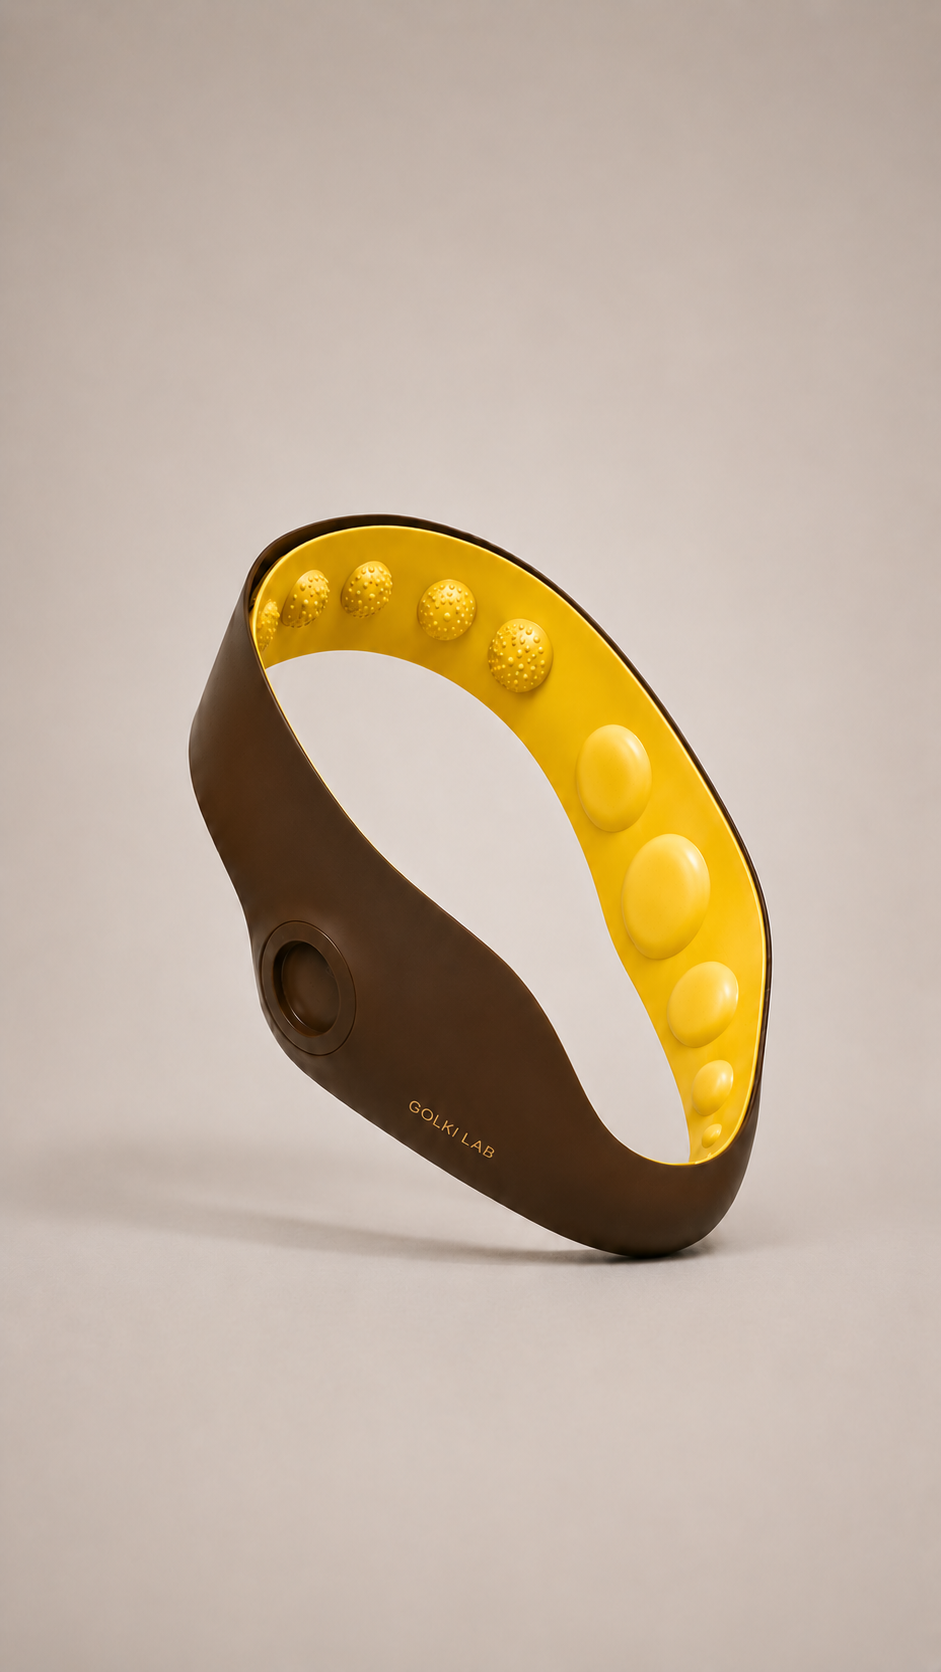
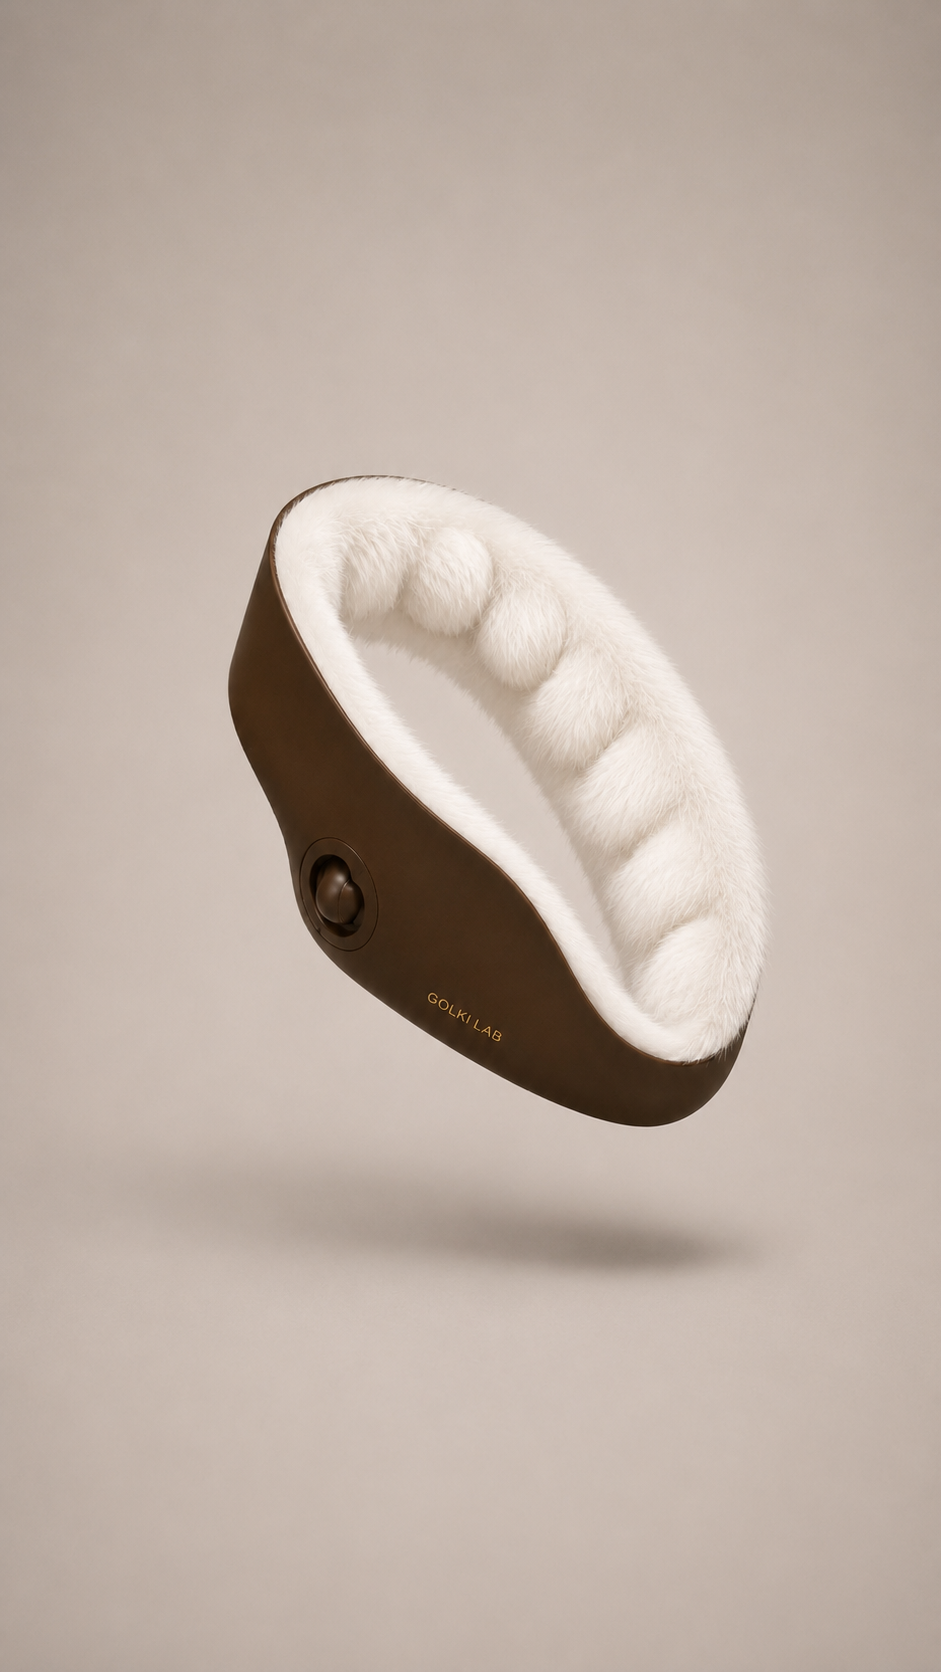
Replace Color & Custom Pad bottom-row photos (beige/pink/white-fur)
Swaps the bottom row (beige-dotted, blue, yellow) for 3 new product
shots the user provided, including the pink pad requested to replace
the blue one. Cache-busted with ?v=2 since these paths have no
existing version param.

Changed region(s): [[0.1849, 0.2799, 0.8321, 0.7775]]

diff --git a/detail.html b/detail.html
@@ -127,9 +127,9 @@
       <img src="./assets/detail/color-pad-1.png" alt="컬러 1">
       <img src="./assets/detail/color-pad-2.png" alt="컬러 2">
       <img src="./assets/detail/color-pad-3.png" alt="컬러 3">
-      <img src="./assets/detail/color-pad-4.png" alt="컬러 4">
-      <img src="./assets/detail/color-pad-5.png" alt="컬러 5">
-      <img src="./assets/detail/color-pad-6.png" alt="컬러 6">
+      <img src="./assets/detail/color-pad-4.png?v=2" alt="컬러 4">
+      <img src="./assets/detail/color-pad-5.png?v=2" alt="컬러 5">
+      <img src="./assets/detail/color-pad-6.png?v=2" alt="컬러 6">
     </div>
   </section>
 